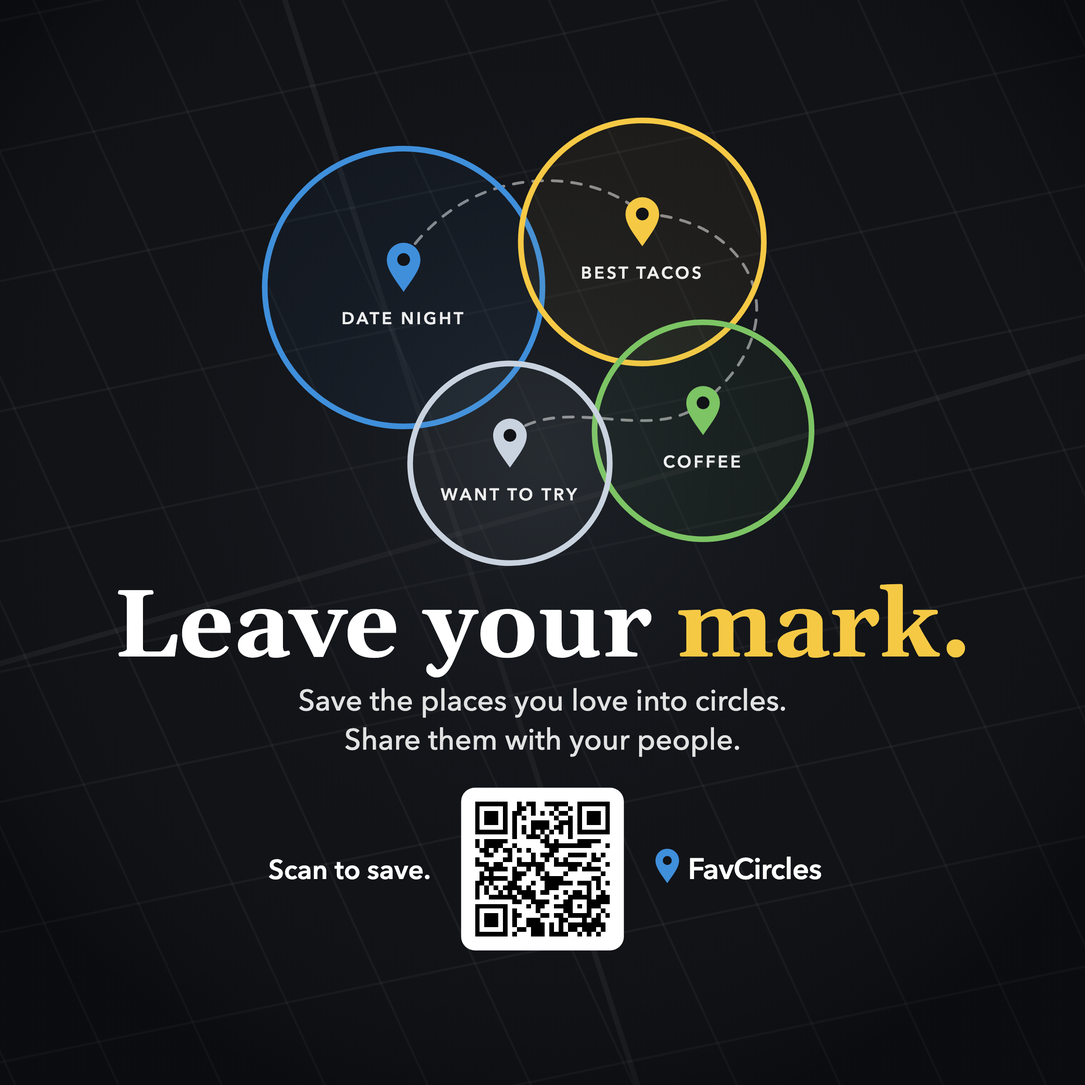
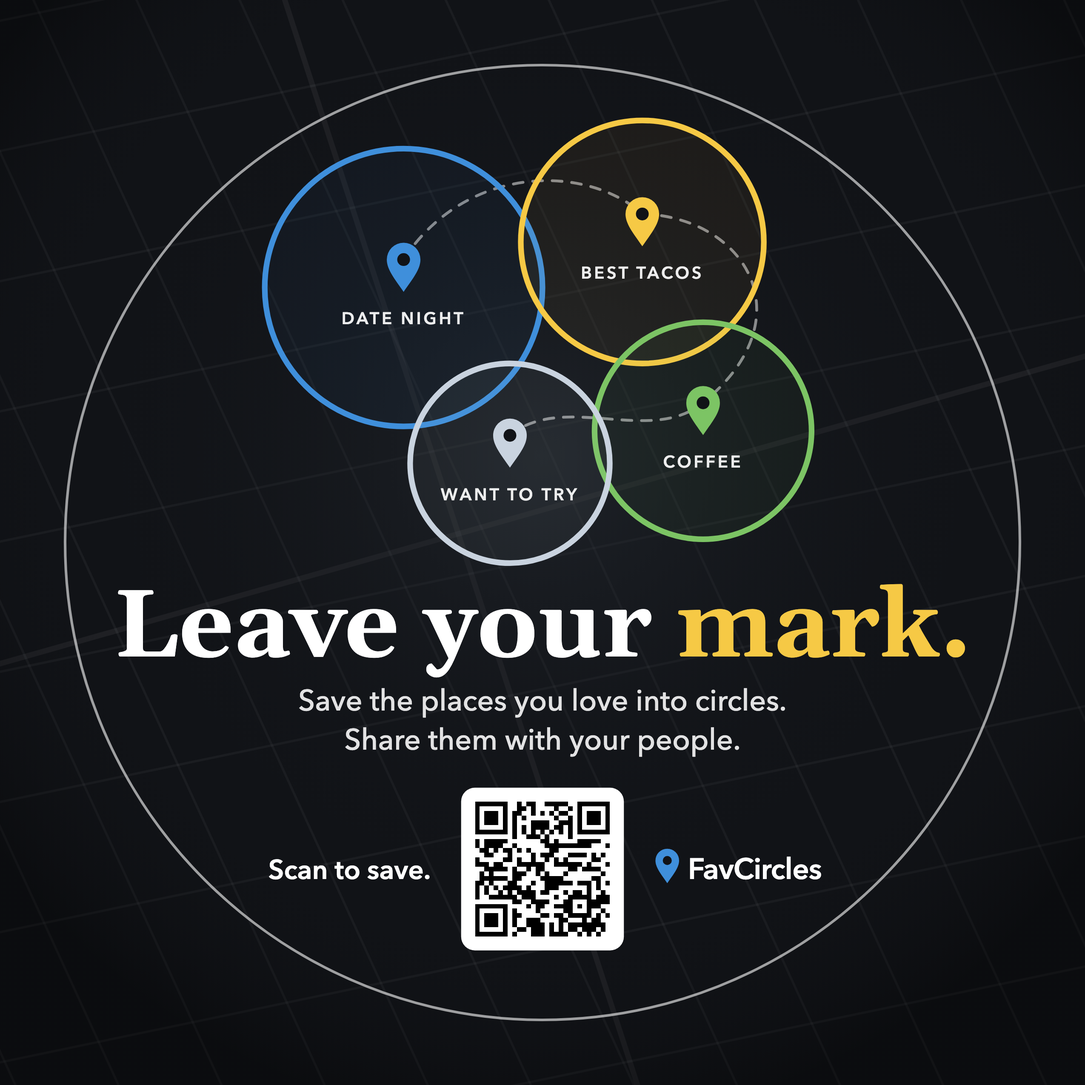
Drink-ring coaster: the thin border ring the original coasters have, on both faces (Wes, 2026-11-16)
Claude-Session: https://claude.ai/code/session_01GsRjBT4hFUmwyYmriewpiP

diff --git a/Marketing/coasters/drink-ring-option/source/face-A-hook.html b/Marketing/coasters/drink-ring-option/source/face-A-hook.html
@@ -7,12 +7,13 @@ html,body{margin:0;background:#111317}svg{display:block;width:2550px;height:2550
   <g stroke="#fff" stroke-opacity="0.045" stroke-width="2.2"><line x1="-870" y1="-100" x2="-320" y2="1100"/><line x1="-100" y1="-800" x2="1100" y2="-1050"/><line x1="-775" y1="-100" x2="-225" y2="1100"/><line x1="-100" y1="-680" x2="1100" y2="-930"/><line x1="-680" y1="-100" x2="-130" y2="1100"/><line x1="-100" y1="-560" x2="1100" y2="-810"/><line x1="-585" y1="-100" x2="-35" y2="1100"/><line x1="-100" y1="-440" x2="1100" y2="-690"/><line x1="-490" y1="-100" x2="60" y2="1100"/><line x1="-100" y1="-320" x2="1100" y2="-570"/><line x1="-395" y1="-100" x2="155" y2="1100"/><line x1="-100" y1="-200" x2="1100" y2="-450"/><line x1="-300" y1="-100" x2="250" y2="1100"/><line x1="-100" y1="-80" x2="1100" y2="-330"/><line x1="-205" y1="-100" x2="345" y2="1100"/><line x1="-100" y1="40" x2="1100" y2="-210"/><line x1="-110" y1="-100" x2="440" y2="1100"/><line x1="-100" y1="160" x2="1100" y2="-90"/><line x1="-15" y1="-100" x2="535" y2="1100"/><line x1="-100" y1="280" x2="1100" y2="30"/><line x1="80" y1="-100" x2="630" y2="1100"/><line x1="-100" y1="400" x2="1100" y2="150"/><line x1="175" y1="-100" x2="725" y2="1100"/><line x1="-100" y1="520" x2="1100" y2="270"/><line x1="270" y1="-100" x2="820" y2="1100"/><line x1="-100" y1="640" x2="1100" y2="390"/><line x1="365" y1="-100" x2="915" y2="1100"/><line x1="-100" y1="760" x2="1100" y2="510"/><line x1="460" y1="-100" x2="1010" y2="1100"/><line x1="-100" y1="880" x2="1100" y2="630"/><line x1="555" y1="-100" x2="1105" y2="1100"/><line x1="-100" y1="1000" x2="1100" y2="750"/><line x1="650" y1="-100" x2="1200" y2="1100"/><line x1="-100" y1="1120" x2="1100" y2="870"/><line x1="745" y1="-100" x2="1295" y2="1100"/><line x1="-100" y1="1240" x2="1100" y2="990"/><line x1="840" y1="-100" x2="1390" y2="1100"/><line x1="-100" y1="1360" x2="1100" y2="1110"/><line x1="935" y1="-100" x2="1485" y2="1100"/><line x1="-100" y1="1480" x2="1100" y2="1230"/><line x1="1030" y1="-100" x2="1580" y2="1100"/><line x1="-100" y1="1600" x2="1100" y2="1350"/><line x1="1125" y1="-100" x2="1675" y2="1100"/><line x1="-100" y1="1720" x2="1100" y2="1470"/><line x1="1220" y1="-100" x2="1770" y2="1100"/><line x1="-100" y1="1840" x2="1100" y2="1590"/></g>
   <g stroke="#fff" stroke-opacity="0.06" stroke-width="5"><line x1="-100" y1="640" x2="1100" y2="300"/><line x1="230" y1="-100" x2="620" y2="1100"/></g>
   <rect width="1000" height="1000" fill="url(#vignette)"/>
-  <circle cx="500" cy="392" r="326" fill="#F6C945" fill-opacity="0.05" stroke="#F6C945" stroke-width="7.15"/>
-  <text x="500" y="196" text-anchor="middle" font-family="'Avenir Next', Avenir, sans-serif" font-weight="600" font-size="21" letter-spacing="3" fill="#F6C945" fill-opacity="0.9">P S S T .</text>
-  <text x="500" y="302" text-anchor="middle" font-family="Gelasio" font-weight="700" font-size="60" fill="#fff">You’re sitting in</text>
-  <text x="500" y="392" text-anchor="middle" font-family="Gelasio" font-weight="700" font-size="76" fill="#F6C945">someone’s</text>
-  <text x="500" y="478" text-anchor="middle" font-family="Gelasio" font-weight="700" font-size="76" fill="#F6C945">favorite place.</text>
-  <text x="500" y="556" text-anchor="middle" font-family="'Avenir Next', Avenir, sans-serif" font-weight="500" font-size="30" letter-spacing="0" fill="#fff" fill-opacity="0.88">Is it one of yours?</text>
-  <g transform="translate(418,730)"><rect width="164" height="164" rx="13.940000000000001" fill="#fff"/><path d="M14.057,14.057h32.800v4.686h-32.800zM56.229,14.057h4.686v4.686h-4.686zM65.600,14.057h9.371v4.686h-9.371zM84.343,14.057h23.429v4.686h-23.429zM117.143,14.057h32.800v4.686h-32.800zM14.057,18.743h4.686v4.686h-4.686zM42.171,18.743h4.686v4.686h-4.686zM56.229,18.743h9.371v4.686h-9.371zM70.286,18.743h4.686v4.686h-4.686zM93.714,18.743h4.686v4.686h-4.686zM107.771,18.743h4.686v4.686h-4.686zM117.143,18.743h4.686v4.686h-4.686zM145.257,18.743h4.686v4.686h-4.686zM14.057,23.429h4.686v4.686h-4.686zM23.429,23.429h14.057v4.686h-14.057zM42.171,23.429h4.686v4.686h-4.686zM51.543,23.429h9.371v4.686h-9.371zM70.286,23.429h4.686v4.686h-4.686zM79.657,23.429h4.686v4.686h-4.686zM89.029,23.429h4.686v4.686h-4.686zM98.400,23.429h9.371v4.686h-9.371zM117.143,23.429h4.686v4.686h-4.686zM126.514,23.429h14.057v4.686h-14.057zM145.257,23.429h4.686v4.686h-4.686zM14.057,28.114h4.686v4.686h-4.686zM23.429,28.114h14.057v4.686h-14.057zM42.171,28.114h4.686v4.686h-4.686zM51.543,28.114h4.686v4.686h-4.686zM60.914,28.114h4.686v4.686h-4.686zM93.714,28.114h4.686v4.686h-4.686zM107.771,28.114h4.686v4.686h-4.686zM117.143,28.114h4.686v4.686h-4.686zM126.514,28.114h14.057v4.686h-14.057zM145.257,28.114h4.686v4.686h-4.686zM14.057,32.800h4.686v4.686h-4.686zM23.429,32.800h14.057v4.686h-14.057zM42.171,32.800h4.686v4.686h-4.686zM51.543,32.800h4.686v4.686h-4.686zM70.286,32.800h18.743v4.686h-18.743zM98.400,32.800h14.057v4.686h-14.057zM117.143,32.800h4.686v4.686h-4.686zM126.514,32.800h14.057v4.686h-14.057zM145.257,32.800h4.686v4.686h-4.686zM14.057,37.486h4.686v4.686h-4.686zM42.171,37.486h4.686v4.686h-4.686zM51.543,37.486h4.686v4.686h-4.686zM60.914,37.486h4.686v4.686h-4.686zM70.286,37.486h18.743v4.686h-18.743zM93.714,37.486h9.371v4.686h-9.371zM107.771,37.486h4.686v4.686h-4.686zM117.143,37.486h4.686v4.686h-4.686zM145.257,37.486h4.686v4.686h-4.686zM14.057,42.171h32.800v4.686h-32.800zM51.543,42.171h4.686v4.686h-4.686zM60.914,42.171h4.686v4.686h-4.686zM70.286,42.171h4.686v4.686h-4.686zM79.657,42.171h4.686v4.686h-4.686zM89.029,42.171h4.686v4.686h-4.686zM98.400,42.171h4.686v4.686h-4.686zM107.771,42.171h4.686v4.686h-4.686zM117.143,42.171h32.800v4.686h-32.800zM51.543,46.857h4.686v4.686h-4.686zM65.600,46.857h14.057v4.686h-14.057zM84.343,46.857h4.686v4.686h-4.686zM107.771,46.857h4.686v4.686h-4.686zM14.057,51.543h4.686v4.686h-4.686zM23.429,51.543h23.429v4.686h-23.429zM79.657,51.543h9.371v4.686h-9.371zM93.714,51.543h4.686v4.686h-4.686zM117.143,51.543h23.429v4.686h-23.429zM14.057,56.229h4.686v4.686h-4.686zM23.429,56.229h18.743v4.686h-18.743zM51.543,56.229h4.686v4.686h-4.686zM84.343,56.229h46.857v4.686h-46.857zM145.257,56.229h4.686v4.686h-4.686zM18.743,60.914h9.371v4.686h-9.371zM32.800,60.914h4.686v4.686h-4.686zM42.171,60.914h9.371v4.686h-9.371zM56.229,60.914h4.686v4.686h-4.686zM65.600,60.914h4.686v4.686h-4.686zM89.029,60.914h9.371v4.686h-9.371zM23.429,65.600h9.371v4.686h-9.371zM46.857,65.600h4.686v4.686h-4.686zM70.286,65.600h4.686v4.686h-4.686zM79.657,65.600h14.057v4.686h-14.057zM107.771,65.600h18.743v4.686h-18.743zM131.200,65.600h4.686v4.686h-4.686zM140.571,65.600h4.686v4.686h-4.686zM14.057,70.286h4.686v4.686h-4.686zM42.171,70.286h9.371v4.686h-9.371zM56.229,70.286h4.686v4.686h-4.686zM70.286,70.286h4.686v4.686h-4.686zM84.343,70.286h4.686v4.686h-4.686zM93.714,70.286h4.686v4.686h-4.686zM103.086,70.286h4.686v4.686h-4.686zM131.200,70.286h9.371v4.686h-9.371zM14.057,74.971h14.057v4.686h-14.057zM32.800,74.971h9.371v4.686h-9.371zM56.229,74.971h28.114v4.686h-28.114zM93.714,74.971h28.114v4.686h-28.114zM126.514,74.971h4.686v4.686h-4.686zM145.257,74.971h4.686v4.686h-4.686zM23.429,79.657h23.429v4.686h-23.429zM51.543,79.657h4.686v4.686h-4.686zM65.600,79.657h4.686v4.686h-4.686zM74.971,79.657h9.371v4.686h-9.371zM107.771,79.657h9.371v4.686h-9.371zM121.829,79.657h18.743v4.686h-18.743zM18.743,84.343h4.686v4.686h-4.686zM28.114,84.343h4.686v4.686h-4.686zM51.543,84.343h14.057v4.686h-14.057zM74.971,84.343h4.686v4.686h-4.686zM84.343,84.343h4.686v4.686h-4.686zM103.086,84.343h4.686v4.686h-4.686zM140.571,84.343h4.686v4.686h-4.686zM18.743,89.029h28.114v4.686h-28.114zM51.543,89.029h9.371v4.686h-9.371zM79.657,89.029h23.429v4.686h-23.429zM131.200,89.029h9.371v4.686h-9.371zM14.057,93.714h9.371v4.686h-9.371zM28.114,93.714h4.686v4.686h-4.686zM46.857,93.714h9.371v4.686h-9.371zM70.286,93.714h4.686v4.686h-4.686zM84.343,93.714h28.114v4.686h-28.114zM117.143,93.714h14.057v4.686h-14.057zM135.886,93.714h4.686v4.686h-4.686zM145.257,93.714h4.686v4.686h-4.686zM14.057,98.400h4.686v4.686h-4.686zM23.429,98.400h4.686v4.686h-4.686zM32.800,98.400h4.686v4.686h-4.686zM42.171,98.400h18.743v4.686h-18.743zM65.600,98.400h4.686v4.686h-4.686zM84.343,98.400h14.057v4.686h-14.057zM126.514,98.400h4.686v4.686h-4.686zM135.886,98.400h4.686v4.686h-4.686zM14.057,103.086h4.686v4.686h-4.686zM23.429,103.086h4.686v4.686h-4.686zM37.486,103.086h4.686v4.686h-4.686zM46.857,103.086h4.686v4.686h-4.686zM56.229,103.086h18.743v4.686h-18.743zM79.657,103.086h9.371v4.686h-9.371zM103.086,103.086h4.686v4.686h-4.686zM112.457,103.086h9.371v4.686h-9.371zM126.514,103.086h4.686v4.686h-4.686zM140.571,103.086h4.686v4.686h-4.686zM14.057,107.771h4.686v4.686h-4.686zM28.114,107.771h28.114v4.686h-28.114zM60.914,107.771h14.057v4.686h-14.057zM93.714,107.771h4.686v4.686h-4.686zM107.771,107.771h23.429v4.686h-23.429zM135.886,107.771h14.057v4.686h-14.057zM51.543,112.457h9.371v4.686h-9.371zM70.286,112.457h18.743v4.686h-18.743zM103.086,112.457h9.371v4.686h-9.371zM126.514,112.457h23.429v4.686h-23.429zM14.057,117.143h32.800v4.686h-32.800zM65.600,117.143h4.686v4.686h-4.686zM74.971,117.143h9.371v4.686h-9.371zM93.714,117.143h18.743v4.686h-18.743zM117.143,117.143h4.686v4.686h-4.686zM126.514,117.143h14.057v4.686h-14.057zM14.057,121.829h4.686v4.686h-4.686zM42.171,121.829h4.686v4.686h-4.686zM51.543,121.829h4.686v4.686h-4.686zM74.971,121.829h4.686v4.686h-4.686zM103.086,121.829h9.371v4.686h-9.371zM126.514,121.829h4.686v4.686h-4.686zM140.571,121.829h4.686v4.686h-4.686zM14.057,126.514h4.686v4.686h-4.686zM23.429,126.514h14.057v4.686h-14.057zM42.171,126.514h4.686v4.686h-4.686zM51.543,126.514h9.371v4.686h-9.371zM79.657,126.514h9.371v4.686h-9.371zM93.714,126.514h9.371v4.686h-9.371zM107.771,126.514h23.429v4.686h-23.429zM135.886,126.514h4.686v4.686h-4.686zM145.257,126.514h4.686v4.686h-4.686zM14.057,131.200h4.686v4.686h-4.686zM23.429,131.200h14.057v4.686h-14.057zM42.171,131.200h4.686v4.686h-4.686zM51.543,131.200h4.686v4.686h-4.686zM65.600,131.200h14.057v4.686h-14.057zM98.400,131.200h9.371v4.686h-9.371zM121.829,131.200h4.686v4.686h-4.686zM131.200,131.200h9.371v4.686h-9.371zM14.057,135.886h4.686v4.686h-4.686zM23.429,135.886h14.057v4.686h-14.057zM42.171,135.886h4.686v4.686h-4.686zM51.543,135.886h4.686v4.686h-4.686zM65.600,135.886h18.743v4.686h-18.743zM89.029,135.886h4.686v4.686h-4.686zM98.400,135.886h4.686v4.686h-4.686zM107.771,135.886h37.486v4.686h-37.486zM14.057,140.571h4.686v4.686h-4.686zM42.171,140.571h4.686v4.686h-4.686zM56.229,140.571h9.371v4.686h-9.371zM70.286,140.571h14.057v4.686h-14.057zM89.029,140.571h4.686v4.686h-4.686zM98.400,140.571h4.686v4.686h-4.686zM107.771,140.571h9.371v4.686h-9.371zM121.829,140.571h14.057v4.686h-14.057zM140.571,140.571h4.686v4.686h-4.686zM14.057,145.257h32.800v4.686h-32.800zM51.543,145.257h4.686v4.686h-4.686zM70.286,145.257h14.057v4.686h-14.057zM89.029,145.257h18.743v4.686h-18.743zM117.143,145.257h4.686v4.686h-4.686zM126.514,145.257h4.686v4.686h-4.686zM135.886,145.257h4.686v4.686h-4.686z" fill="#000" shape-rendering="crispEdges"/></g>
-  <text x="390" y="821" text-anchor="end" font-family="'Avenir Next', Avenir, sans-serif" font-weight="600" font-size="25" letter-spacing="0" fill="#fff" fill-opacity="1">Scan to save.</text>
-  <g transform="translate(622,825) scale(0.43548387096774194)"><path d="M0 0C-13-19-25-33-25-48A25 25 0 1 1 25-48C25-33 13-19 0 0Z" fill="#3F8FDB"/><circle cy="-48" r="9.5" fill="#111317"/></g><text x="641" y="821" font-family="'Avenir Next', Avenir, sans-serif" font-weight="600" font-size="27" fill="#fff" letter-spacing="-0.3">FavCircles</text></svg></body></html>
+  <circle cx="500" cy="500" r="440" fill="none" stroke="#fff" stroke-opacity="0.6" stroke-width="2.4"/>
+  <circle cx="500" cy="392" r="302" fill="#F6C945" fill-opacity="0.05" stroke="#F6C945" stroke-width="7.15"/>
+  <text x="500" y="208" text-anchor="middle" font-family="'Avenir Next', Avenir, sans-serif" font-weight="600" font-size="20" letter-spacing="3" fill="#F6C945" fill-opacity="0.9">P S S T .</text>
+  <text x="500" y="304" text-anchor="middle" font-family="Gelasio" font-weight="700" font-size="57" fill="#fff">You’re sitting in</text>
+  <text x="500" y="390" text-anchor="middle" font-family="Gelasio" font-weight="700" font-size="72" fill="#F6C945">someone’s</text>
+  <text x="500" y="472" text-anchor="middle" font-family="Gelasio" font-weight="700" font-size="72" fill="#F6C945">favorite place.</text>
+  <text x="500" y="548" text-anchor="middle" font-family="'Avenir Next', Avenir, sans-serif" font-weight="500" font-size="29" letter-spacing="0" fill="#fff" fill-opacity="0.88">Is it one of yours?</text>
+  <g transform="translate(418,724)"><rect width="164" height="164" rx="13.940000000000001" fill="#fff"/><path d="M14.057,14.057h32.800v4.686h-32.800zM56.229,14.057h4.686v4.686h-4.686zM65.600,14.057h9.371v4.686h-9.371zM84.343,14.057h23.429v4.686h-23.429zM117.143,14.057h32.800v4.686h-32.800zM14.057,18.743h4.686v4.686h-4.686zM42.171,18.743h4.686v4.686h-4.686zM56.229,18.743h9.371v4.686h-9.371zM70.286,18.743h4.686v4.686h-4.686zM93.714,18.743h4.686v4.686h-4.686zM107.771,18.743h4.686v4.686h-4.686zM117.143,18.743h4.686v4.686h-4.686zM145.257,18.743h4.686v4.686h-4.686zM14.057,23.429h4.686v4.686h-4.686zM23.429,23.429h14.057v4.686h-14.057zM42.171,23.429h4.686v4.686h-4.686zM51.543,23.429h9.371v4.686h-9.371zM70.286,23.429h4.686v4.686h-4.686zM79.657,23.429h4.686v4.686h-4.686zM89.029,23.429h4.686v4.686h-4.686zM98.400,23.429h9.371v4.686h-9.371zM117.143,23.429h4.686v4.686h-4.686zM126.514,23.429h14.057v4.686h-14.057zM145.257,23.429h4.686v4.686h-4.686zM14.057,28.114h4.686v4.686h-4.686zM23.429,28.114h14.057v4.686h-14.057zM42.171,28.114h4.686v4.686h-4.686zM51.543,28.114h4.686v4.686h-4.686zM60.914,28.114h4.686v4.686h-4.686zM93.714,28.114h4.686v4.686h-4.686zM107.771,28.114h4.686v4.686h-4.686zM117.143,28.114h4.686v4.686h-4.686zM126.514,28.114h14.057v4.686h-14.057zM145.257,28.114h4.686v4.686h-4.686zM14.057,32.800h4.686v4.686h-4.686zM23.429,32.800h14.057v4.686h-14.057zM42.171,32.800h4.686v4.686h-4.686zM51.543,32.800h4.686v4.686h-4.686zM70.286,32.800h18.743v4.686h-18.743zM98.400,32.800h14.057v4.686h-14.057zM117.143,32.800h4.686v4.686h-4.686zM126.514,32.800h14.057v4.686h-14.057zM145.257,32.800h4.686v4.686h-4.686zM14.057,37.486h4.686v4.686h-4.686zM42.171,37.486h4.686v4.686h-4.686zM51.543,37.486h4.686v4.686h-4.686zM60.914,37.486h4.686v4.686h-4.686zM70.286,37.486h18.743v4.686h-18.743zM93.714,37.486h9.371v4.686h-9.371zM107.771,37.486h4.686v4.686h-4.686zM117.143,37.486h4.686v4.686h-4.686zM145.257,37.486h4.686v4.686h-4.686zM14.057,42.171h32.800v4.686h-32.800zM51.543,42.171h4.686v4.686h-4.686zM60.914,42.171h4.686v4.686h-4.686zM70.286,42.171h4.686v4.686h-4.686zM79.657,42.171h4.686v4.686h-4.686zM89.029,42.171h4.686v4.686h-4.686zM98.400,42.171h4.686v4.686h-4.686zM107.771,42.171h4.686v4.686h-4.686zM117.143,42.171h32.800v4.686h-32.800zM51.543,46.857h4.686v4.686h-4.686zM65.600,46.857h14.057v4.686h-14.057zM84.343,46.857h4.686v4.686h-4.686zM107.771,46.857h4.686v4.686h-4.686zM14.057,51.543h4.686v4.686h-4.686zM23.429,51.543h23.429v4.686h-23.429zM79.657,51.543h9.371v4.686h-9.371zM93.714,51.543h4.686v4.686h-4.686zM117.143,51.543h23.429v4.686h-23.429zM14.057,56.229h4.686v4.686h-4.686zM23.429,56.229h18.743v4.686h-18.743zM51.543,56.229h4.686v4.686h-4.686zM84.343,56.229h46.857v4.686h-46.857zM145.257,56.229h4.686v4.686h-4.686zM18.743,60.914h9.371v4.686h-9.371zM32.800,60.914h4.686v4.686h-4.686zM42.171,60.914h9.371v4.686h-9.371zM56.229,60.914h4.686v4.686h-4.686zM65.600,60.914h4.686v4.686h-4.686zM89.029,60.914h9.371v4.686h-9.371zM23.429,65.600h9.371v4.686h-9.371zM46.857,65.600h4.686v4.686h-4.686zM70.286,65.600h4.686v4.686h-4.686zM79.657,65.600h14.057v4.686h-14.057zM107.771,65.600h18.743v4.686h-18.743zM131.200,65.600h4.686v4.686h-4.686zM140.571,65.600h4.686v4.686h-4.686zM14.057,70.286h4.686v4.686h-4.686zM42.171,70.286h9.371v4.686h-9.371zM56.229,70.286h4.686v4.686h-4.686zM70.286,70.286h4.686v4.686h-4.686zM84.343,70.286h4.686v4.686h-4.686zM93.714,70.286h4.686v4.686h-4.686zM103.086,70.286h4.686v4.686h-4.686zM131.200,70.286h9.371v4.686h-9.371zM14.057,74.971h14.057v4.686h-14.057zM32.800,74.971h9.371v4.686h-9.371zM56.229,74.971h28.114v4.686h-28.114zM93.714,74.971h28.114v4.686h-28.114zM126.514,74.971h4.686v4.686h-4.686zM145.257,74.971h4.686v4.686h-4.686zM23.429,79.657h23.429v4.686h-23.429zM51.543,79.657h4.686v4.686h-4.686zM65.600,79.657h4.686v4.686h-4.686zM74.971,79.657h9.371v4.686h-9.371zM107.771,79.657h9.371v4.686h-9.371zM121.829,79.657h18.743v4.686h-18.743zM18.743,84.343h4.686v4.686h-4.686zM28.114,84.343h4.686v4.686h-4.686zM51.543,84.343h14.057v4.686h-14.057zM74.971,84.343h4.686v4.686h-4.686zM84.343,84.343h4.686v4.686h-4.686zM103.086,84.343h4.686v4.686h-4.686zM140.571,84.343h4.686v4.686h-4.686zM18.743,89.029h28.114v4.686h-28.114zM51.543,89.029h9.371v4.686h-9.371zM79.657,89.029h23.429v4.686h-23.429zM131.200,89.029h9.371v4.686h-9.371zM14.057,93.714h9.371v4.686h-9.371zM28.114,93.714h4.686v4.686h-4.686zM46.857,93.714h9.371v4.686h-9.371zM70.286,93.714h4.686v4.686h-4.686zM84.343,93.714h28.114v4.686h-28.114zM117.143,93.714h14.057v4.686h-14.057zM135.886,93.714h4.686v4.686h-4.686zM145.257,93.714h4.686v4.686h-4.686zM14.057,98.400h4.686v4.686h-4.686zM23.429,98.400h4.686v4.686h-4.686zM32.800,98.400h4.686v4.686h-4.686zM42.171,98.400h18.743v4.686h-18.743zM65.600,98.400h4.686v4.686h-4.686zM84.343,98.400h14.057v4.686h-14.057zM126.514,98.400h4.686v4.686h-4.686zM135.886,98.400h4.686v4.686h-4.686zM14.057,103.086h4.686v4.686h-4.686zM23.429,103.086h4.686v4.686h-4.686zM37.486,103.086h4.686v4.686h-4.686zM46.857,103.086h4.686v4.686h-4.686zM56.229,103.086h18.743v4.686h-18.743zM79.657,103.086h9.371v4.686h-9.371zM103.086,103.086h4.686v4.686h-4.686zM112.457,103.086h9.371v4.686h-9.371zM126.514,103.086h4.686v4.686h-4.686zM140.571,103.086h4.686v4.686h-4.686zM14.057,107.771h4.686v4.686h-4.686zM28.114,107.771h28.114v4.686h-28.114zM60.914,107.771h14.057v4.686h-14.057zM93.714,107.771h4.686v4.686h-4.686zM107.771,107.771h23.429v4.686h-23.429zM135.886,107.771h14.057v4.686h-14.057zM51.543,112.457h9.371v4.686h-9.371zM70.286,112.457h18.743v4.686h-18.743zM103.086,112.457h9.371v4.686h-9.371zM126.514,112.457h23.429v4.686h-23.429zM14.057,117.143h32.800v4.686h-32.800zM65.600,117.143h4.686v4.686h-4.686zM74.971,117.143h9.371v4.686h-9.371zM93.714,117.143h18.743v4.686h-18.743zM117.143,117.143h4.686v4.686h-4.686zM126.514,117.143h14.057v4.686h-14.057zM14.057,121.829h4.686v4.686h-4.686zM42.171,121.829h4.686v4.686h-4.686zM51.543,121.829h4.686v4.686h-4.686zM74.971,121.829h4.686v4.686h-4.686zM103.086,121.829h9.371v4.686h-9.371zM126.514,121.829h4.686v4.686h-4.686zM140.571,121.829h4.686v4.686h-4.686zM14.057,126.514h4.686v4.686h-4.686zM23.429,126.514h14.057v4.686h-14.057zM42.171,126.514h4.686v4.686h-4.686zM51.543,126.514h9.371v4.686h-9.371zM79.657,126.514h9.371v4.686h-9.371zM93.714,126.514h9.371v4.686h-9.371zM107.771,126.514h23.429v4.686h-23.429zM135.886,126.514h4.686v4.686h-4.686zM145.257,126.514h4.686v4.686h-4.686zM14.057,131.200h4.686v4.686h-4.686zM23.429,131.200h14.057v4.686h-14.057zM42.171,131.200h4.686v4.686h-4.686zM51.543,131.200h4.686v4.686h-4.686zM65.600,131.200h14.057v4.686h-14.057zM98.400,131.200h9.371v4.686h-9.371zM121.829,131.200h4.686v4.686h-4.686zM131.200,131.200h9.371v4.686h-9.371zM14.057,135.886h4.686v4.686h-4.686zM23.429,135.886h14.057v4.686h-14.057zM42.171,135.886h4.686v4.686h-4.686zM51.543,135.886h4.686v4.686h-4.686zM65.600,135.886h18.743v4.686h-18.743zM89.029,135.886h4.686v4.686h-4.686zM98.400,135.886h4.686v4.686h-4.686zM107.771,135.886h37.486v4.686h-37.486zM14.057,140.571h4.686v4.686h-4.686zM42.171,140.571h4.686v4.686h-4.686zM56.229,140.571h9.371v4.686h-9.371zM70.286,140.571h14.057v4.686h-14.057zM89.029,140.571h4.686v4.686h-4.686zM98.400,140.571h4.686v4.686h-4.686zM107.771,140.571h9.371v4.686h-9.371zM121.829,140.571h14.057v4.686h-14.057zM140.571,140.571h4.686v4.686h-4.686zM14.057,145.257h32.800v4.686h-32.800zM51.543,145.257h4.686v4.686h-4.686zM70.286,145.257h14.057v4.686h-14.057zM89.029,145.257h18.743v4.686h-18.743zM117.143,145.257h4.686v4.686h-4.686zM126.514,145.257h4.686v4.686h-4.686zM135.886,145.257h4.686v4.686h-4.686z" fill="#000" shape-rendering="crispEdges"/></g>
+  <text x="390" y="815" text-anchor="end" font-family="'Avenir Next', Avenir, sans-serif" font-weight="600" font-size="25" letter-spacing="0" fill="#fff" fill-opacity="1">Scan to save.</text>
+  <g transform="translate(622,819) scale(0.43548387096774194)"><path d="M0 0C-13-19-25-33-25-48A25 25 0 1 1 25-48C25-33 13-19 0 0Z" fill="#3F8FDB"/><circle cy="-48" r="9.5" fill="#111317"/></g><text x="641" y="815" font-family="'Avenir Next', Avenir, sans-serif" font-weight="600" font-size="27" fill="#fff" letter-spacing="-0.3">FavCircles</text></svg></body></html>

diff --git a/Marketing/coasters/drink-ring-option/source/face-B-map.html b/Marketing/coasters/drink-ring-option/source/face-B-map.html
@@ -6,7 +6,8 @@ html,body{margin:0;background:#111317}svg{display:block;width:2550px;height:2550
 <rect width="1000" height="1000" fill="#111317"/>
   <g stroke="#fff" stroke-opacity="0.045" stroke-width="2.2"><line x1="-870" y1="-100" x2="-320" y2="1100"/><line x1="-100" y1="-800" x2="1100" y2="-1050"/><line x1="-775" y1="-100" x2="-225" y2="1100"/><line x1="-100" y1="-680" x2="1100" y2="-930"/><line x1="-680" y1="-100" x2="-130" y2="1100"/><line x1="-100" y1="-560" x2="1100" y2="-810"/><line x1="-585" y1="-100" x2="-35" y2="1100"/><line x1="-100" y1="-440" x2="1100" y2="-690"/><line x1="-490" y1="-100" x2="60" y2="1100"/><line x1="-100" y1="-320" x2="1100" y2="-570"/><line x1="-395" y1="-100" x2="155" y2="1100"/><line x1="-100" y1="-200" x2="1100" y2="-450"/><line x1="-300" y1="-100" x2="250" y2="1100"/><line x1="-100" y1="-80" x2="1100" y2="-330"/><line x1="-205" y1="-100" x2="345" y2="1100"/><line x1="-100" y1="40" x2="1100" y2="-210"/><line x1="-110" y1="-100" x2="440" y2="1100"/><line x1="-100" y1="160" x2="1100" y2="-90"/><line x1="-15" y1="-100" x2="535" y2="1100"/><line x1="-100" y1="280" x2="1100" y2="30"/><line x1="80" y1="-100" x2="630" y2="1100"/><line x1="-100" y1="400" x2="1100" y2="150"/><line x1="175" y1="-100" x2="725" y2="1100"/><line x1="-100" y1="520" x2="1100" y2="270"/><line x1="270" y1="-100" x2="820" y2="1100"/><line x1="-100" y1="640" x2="1100" y2="390"/><line x1="365" y1="-100" x2="915" y2="1100"/><line x1="-100" y1="760" x2="1100" y2="510"/><line x1="460" y1="-100" x2="1010" y2="1100"/><line x1="-100" y1="880" x2="1100" y2="630"/><line x1="555" y1="-100" x2="1105" y2="1100"/><line x1="-100" y1="1000" x2="1100" y2="750"/><line x1="650" y1="-100" x2="1200" y2="1100"/><line x1="-100" y1="1120" x2="1100" y2="870"/><line x1="745" y1="-100" x2="1295" y2="1100"/><line x1="-100" y1="1240" x2="1100" y2="990"/><line x1="840" y1="-100" x2="1390" y2="1100"/><line x1="-100" y1="1360" x2="1100" y2="1110"/><line x1="935" y1="-100" x2="1485" y2="1100"/><line x1="-100" y1="1480" x2="1100" y2="1230"/><line x1="1030" y1="-100" x2="1580" y2="1100"/><line x1="-100" y1="1600" x2="1100" y2="1350"/><line x1="1125" y1="-100" x2="1675" y2="1100"/><line x1="-100" y1="1720" x2="1100" y2="1470"/><line x1="1220" y1="-100" x2="1770" y2="1100"/><line x1="-100" y1="1840" x2="1100" y2="1590"/></g>
   <g stroke="#fff" stroke-opacity="0.06" stroke-width="5"><line x1="-100" y1="640" x2="1100" y2="300"/><line x1="230" y1="-100" x2="620" y2="1100"/></g>
-  <rect width="1000" height="1000" fill="url(#vignette)"/><g transform="translate(0,-35)">
+  <rect width="1000" height="1000" fill="url(#vignette)"/>
+  <circle cx="500" cy="500" r="440" fill="none" stroke="#fff" stroke-opacity="0.6" stroke-width="2.4"/><g transform="translate(0,-35)">
   <path d="M372 274 C430 186 540 186 592 232 C690 236 742 330 648 406 C600 446 520 396 470 436" fill="none" stroke="#fff" stroke-opacity="0.5" stroke-width="2.6" stroke-dasharray="9 9" stroke-linecap="round"/>
   <circle cx="372" cy="300" r="128" fill="#3F8FDB" fill-opacity="0.05" stroke="#3F8FDB" stroke-width="5.2"/><circle cx="592" cy="258" r="112" fill="#F6C945" fill-opacity="0.05" stroke="#F6C945" stroke-width="5.2"/><circle cx="648" cy="432" r="100" fill="#7CC464" fill-opacity="0.05" stroke="#7CC464" stroke-width="5.2"/><circle cx="470" cy="462" r="92" fill="#C9D3DF" fill-opacity="0.05" stroke="#C9D3DF" stroke-width="5.2"/>
   <g transform="translate(372,304) scale(0.62)"><path d="M0 0C-13-19-25-33-25-48A25 25 0 1 1 25-48C25-33 13-19 0 0Z" fill="#3F8FDB"/><circle cy="-48" r="9.5" fill="#111317"/></g><text x="372" y="334" text-anchor="middle" font-family="'Avenir Next', Avenir, sans-serif" font-weight="600" font-size="15.5" letter-spacing="2.2" fill="#fff" fill-opacity="0.92">DATE NIGHT</text><g transform="translate(592,262) scale(0.62)"><path d="M0 0C-13-19-25-33-25-48A25 25 0 1 1 25-48C25-33 13-19 0 0Z" fill="#F6C945"/><circle cy="-48" r="9.5" fill="#111317"/></g><text x="592" y="292" text-anchor="middle" font-family="'Avenir Next', Avenir, sans-serif" font-weight="600" font-size="15.5" letter-spacing="2.2" fill="#fff" fill-opacity="0.92">BEST TACOS</text><g transform="translate(648,436) scale(0.62)"><path d="M0 0C-13-19-25-33-25-48A25 25 0 1 1 25-48C25-33 13-19 0 0Z" fill="#7CC464"/><circle cy="-48" r="9.5" fill="#111317"/></g><text x="648" y="466" text-anchor="middle" font-family="'Avenir Next', Avenir, sans-serif" font-weight="600" font-size="15.5" letter-spacing="2.2" fill="#fff" fill-opacity="0.92">COFFEE</text><g transform="translate(470,466) scale(0.62)"><path d="M0 0C-13-19-25-33-25-48A25 25 0 1 1 25-48C25-33 13-19 0 0Z" fill="#C9D3DF"/><circle cy="-48" r="9.5" fill="#111317"/></g><text x="470" y="496" text-anchor="middle" font-family="'Avenir Next', Avenir, sans-serif" font-weight="600" font-size="15.5" letter-spacing="2.2" fill="#fff" fill-opacity="0.92">WANT TO TRY</text>

diff --git a/Marketing/coasters/drink-ring-option/source/build.js b/Marketing/coasters/drink-ring-option/source/build.js
@@ -13,6 +13,7 @@ const rewardConfig = require(path.join(B, 'config/rewardConfig'));
 const PX = 2550;                       // 4.25 in at 600 dpi
 const TRIM = 500 * 4 / 4.25;           // cut line radius, units
 const SAFE = 500 * 3.7 / 4.25;         // keep words and the code inside this
+const BORDER = TRIM * 0.935;         // the thin rim line the original coasters have, about 1/8 in from the cut
 const INK = '#111317', GOLD = '#F6C945', BLUE = '#3F8FDB', GREEN = '#7CC464', MIST = '#C9D3DF';
 const serif = fs.readFileSync(path.join(B, 'assets/fonts/Gelasio-Bold.ttf')).toString('base64');
 const url = rewardService.stickerUrl(rewardConfig.GENERIC_JOIN_CODE);
@@ -47,20 +48,21 @@ function ground() {
   return `<rect width="1000" height="1000" fill="${INK}"/>
   <g stroke="#fff" stroke-opacity="0.045" stroke-width="2.2">${streets}</g>
   <g stroke="#fff" stroke-opacity="0.06" stroke-width="5"><line x1="-100" y1="640" x2="1100" y2="300"/><line x1="230" y1="-100" x2="620" y2="1100"/></g>
-  <rect width="1000" height="1000" fill="url(#vignette)"/>`;
+  <rect width="1000" height="1000" fill="url(#vignette)"/>
+  <circle cx="500" cy="500" r="${BORDER}" fill="none" stroke="#fff" stroke-opacity="0.6" stroke-width="2.4"/>`;
 }
 const sans = (x, y, size, text, { fill = '#fff', weight = 500, spacing = 0, anchor = 'middle', opacity = 1 } = {}) => `<text x="${x}" y="${y}" text-anchor="${anchor}" font-family="'Avenir Next', Avenir, sans-serif" font-weight="${weight}" font-size="${size}" letter-spacing="${spacing}" fill="${fill}" fill-opacity="${opacity}">${text}</text>`;
 const head = (x, y, size, text, fill = '#fff') => `<text x="${x}" y="${y}" text-anchor="middle" font-family="Gelasio" font-weight="700" font-size="${size}" fill="${fill}">${text}</text>`;
 
 // Face A, the hook: the coaster talks about where you are right now
 const faceA = `${ground()}
-  ${ring(500, 392, 326, GOLD, { weight: 1.1 })}
-  ${sans(500, 196, 21, 'P S S T .', { fill: GOLD, weight: 600, spacing: 3, opacity: 0.9 })}
-  ${head(500, 302, 60, 'You’re sitting in')}
-  ${head(500, 392, 76, 'someone’s', GOLD)}
-  ${head(500, 478, 76, 'favorite place.', GOLD)}
-  ${sans(500, 556, 30, 'Is it one of yours?', { fill: '#fff', opacity: 0.88 })}
-  ${footer(812, 164)}`;
+  ${ring(500, 392, 302, GOLD, { weight: 1.1 })}
+  ${sans(500, 208, 20, 'P S S T .', { fill: GOLD, weight: 600, spacing: 3, opacity: 0.9 })}
+  ${head(500, 304, 57, 'You’re sitting in')}
+  ${head(500, 390, 72, 'someone’s', GOLD)}
+  ${head(500, 472, 72, 'favorite place.', GOLD)}
+  ${sans(500, 548, 29, 'Is it one of yours?', { fill: '#fff', opacity: 0.88 })}
+  ${footer(806, 164)}`;
 
 // Face B, the payoff: rings on a bar are circles on your map
 const spots = [

diff --git a/Marketing/coasters/drink-ring-option/README.md b/Marketing/coasters/drink-ring-option/README.md
@@ -20,3 +20,4 @@ glass leaves. Both faces end the same way: "Scan to save." · QR · FavCircles. 
 - QR: `https://api.favcircles.com/s/JOINUS` (generic App Clip). About 0.55 in of dots on face A,
   0.5 in on face B, black on white.
 - Colours are sRGB: charcoal #111317, gold #F6C945, blue #3F8FDB, green #7CC464.
+- A thin rim line runs about 1/8 in inside the cut, as on the original coasters. A cut that lands off-centre will show against it, so ask the printer about their cutting tolerance.
